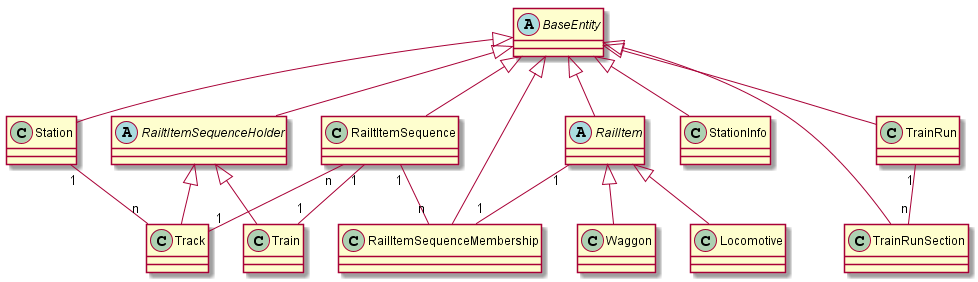
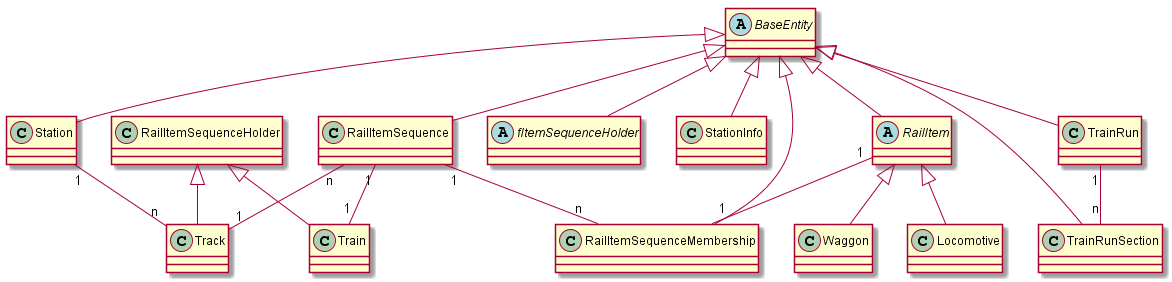
123

diff --git a/src/main/java/de/gravitex/trainmaster/controller/TrainRunController.java b/src/main/java/de/gravitex/trainmaster/controller/TrainRunController.java
@@ -12,6 +12,7 @@ import org.springframework.web.bind.annotation.RequestMapping;
 import org.springframework.web.bind.annotation.RequestParam;
 import org.springframework.web.bind.annotation.RestController;
 
+import de.gravitex.trainmaster.config.ServerMappings;
 import de.gravitex.trainmaster.dlh.EntityHelper;
 import de.gravitex.trainmaster.dlh.SimpleTrackRenderer;
 import de.gravitex.trainmaster.entity.Locomotive;
@@ -28,7 +29,7 @@ import de.gravitex.trainmaster.entity.Waggon;
 import de.gravitex.trainmaster.logic.TrainRunner;
 import de.gravitex.trainmaster.repo.RailItemRepository;
 import de.gravitex.trainmaster.repo.RailItemSequenceRepository;
-import de.gravitex.trainmaster.repo.RailtItemSequenceMembershipRepository;
+import de.gravitex.trainmaster.repo.RailItemSequenceMembershipRepository;
 import de.gravitex.trainmaster.repo.StationInfoRepository;
 import de.gravitex.trainmaster.repo.StationRepository;
 import de.gravitex.trainmaster.repo.TrackRepository;
@@ -36,6 +37,7 @@ import de.gravitex.trainmaster.repo.TrainRepository;
 import de.gravitex.trainmaster.repo.TrainRunRepository;
 import de.gravitex.trainmaster.repo.TrainRunSectionRepository;
 import de.gravitex.trainmaster.repo.WaggonRepository;
+import de.gravitex.trainmaster.service.ITrackService;
 
 @RestController
 public class TrainRunController {
@@ -54,7 +56,7 @@ public class TrainRunController {
 	private RailItemSequenceRepository railItemSequenceRepository;
 
 	@Autowired
-	private RailtItemSequenceMembershipRepository railtItemSequenceMembershipRepository;
+	private RailItemSequenceMembershipRepository railItemSequenceMembershipRepository;
 
 	@Autowired
 	private RailItemRepository railItemRepository;
@@ -74,7 +76,10 @@ public class TrainRunController {
     @Autowired
     WaggonRepository waggonRepository;
     
-	@RequestMapping("/meeting")
+    @Autowired
+    ITrackService productService;
+    
+	@RequestMapping(ServerMappings.MEETING)
 	public Greeting meeting(@RequestParam(value = "name", defaultValue = "Meeting") String name) {
 		trainRunRepository.save(new TrainRun());
 		waggonRepository.save(EntityHelper.makeWaggon("123A"));
@@ -83,7 +88,7 @@ public class TrainRunController {
 		return new Greeting(counter.incrementAndGet(), String.format(template, name));
 	}
 
-	@RequestMapping("/greeting")
+	@RequestMapping(ServerMappings.GREETING)
 	public Greeting greeting(@RequestParam(value = "name", defaultValue = "World") String name) {
 		trainRunRepository.save(new TrainRun());
 		trainRunRepository.save(new TrainRun());
@@ -95,8 +100,8 @@ public class TrainRunController {
 	}
 	
 	@Transactional
-	@RequestMapping("/train")
-	public ResponseEntity<String> train(@RequestParam(value = "name", defaultValue = "Train") String name) {
+	@RequestMapping(ServerMappings.TRAIN)
+	public ResponseEntity<String> train(@RequestParam(value = "trackNumber") String trackNumber) {
 		
 		Station station1 = new Station("S1");
 		stationRepository.save(station1);
@@ -175,23 +180,26 @@ public class TrainRunController {
 		
 		renderTracksAndWaggons("AFTER DEPART");
 		
-		return new ResponseEntity<String>("123-456-789", HttpStatus.OK);
+		String trackSequence = productService.getTrackSequenceAsString(trackNumber);
+		
+		// return new ResponseEntity<String>("123-456-789", HttpStatus.OK);
+		return new ResponseEntity<String>(trackSequence, HttpStatus.OK);
 	}
 	
-	private void putRailItemToTrack(RailItem railItem, Track track, RailItemSequence railtItemSequence,
+	private void putRailItemToTrack(RailItem railItem, Track track, RailItemSequence railItemSequence,
 			int ordinalPosition) {
 
-		System.out.println("putWaggonToTrack :: waggon = " + railItem.getIdentifier() + ", track = " + track.getName()
+		System.out.println("putWaggonToTrack :: waggon = " + railItem.getIdentifier() + ", track = " + track.getTrackNumber()
 				+ ", station = " + track.getStation().getStationName());
 
-		railtItemSequence.setRailItemSequenceHolder(track);
-		railItemSequenceRepository.save(railtItemSequence);
+		railItemSequence.setRailItemSequenceHolder(track);
+		railItemSequenceRepository.save(railItemSequence);
 
 		RailItemSequenceMembership sequenceMembership = new RailItemSequenceMembership();
 		sequenceMembership.setRailItem(railItem);
 		sequenceMembership.setOrdinalPosition(ordinalPosition);
-		sequenceMembership.setRailItemSequence(railtItemSequence);
-		railtItemSequenceMembershipRepository.save(sequenceMembership);
+		sequenceMembership.setRailItemSequence(railItemSequence);
+		railItemSequenceMembershipRepository.save(sequenceMembership);
 	}
 	
 	private String renderTracksAndWaggons(String description) {

diff --git a/src/main/java/de/gravitex/trainmaster/manager/WaggonManager.java b/src/main/java/de/gravitex/trainmaster/manager/WaggonManager.java
@@ -10,31 +10,31 @@ import de.gravitex.trainmaster.helper.StringHelper;
 
 public class WaggonManager {
 
-	public static RailItemSequence addWaggonToSequence(RailItemSequence railtItemSequence, RailItem... railItems) {
-		if (railtItemSequence == null) {
-			railtItemSequence = new RailItemSequence(0);
+	public static RailItemSequence addWaggonToSequence(RailItemSequence railItemSequence, RailItem... railItems) {
+		if (railItemSequence == null) {
+			railItemSequence = new RailItemSequence(0);
 		}
 		for (RailItem railItem : railItems) {
 			RailItemSequenceMembership railItemSequenceMembership = new RailItemSequenceMembership();
 			railItemSequenceMembership.setRailItem(railItem);
-			railtItemSequence.getRailItemSequenceMemberships().add(railItemSequenceMembership);
+			railItemSequence.getRailItemSequenceMemberships().add(railItemSequenceMembership);
 		}
-		return railtItemSequence;
+		return railItemSequence;
 	}
 
-	public static String getWaggonNumbersAsString(RailItemSequence railtItemSequence) {
+	public static String getWaggonNumbersAsString(RailItemSequence railItemSequence) {
 		List<String> waggonNumbers = new ArrayList<>();
-		for (RailItemSequenceMembership membership : railtItemSequence.getRailItemSequenceMemberships()) {
+		for (RailItemSequenceMembership membership : railItemSequence.getRailItemSequenceMemberships()) {
 			waggonNumbers.add(membership.getRailItem().getIdentifier());
 		}
 		return StringHelper.stringListAsOrderedAndSeparated(waggonNumbers);
 	}
 
-	public static RailItemSequence reverseWaggonSequence(RailItemSequence railtItemSequence) {
+	public static RailItemSequence reverseWaggonSequence(RailItemSequence railItemSequence) {
 		RailItemSequence reversedSequence = new RailItemSequence(0);
-		int removeIndex = railtItemSequence.getRailItemSequenceMemberships().size() - 1;
-		for (int counter = 0; counter < railtItemSequence.getRailItemSequenceMemberships().size(); counter++) {
-			RailItemSequenceMembership membership = railtItemSequence.getRailItemSequenceMemberships().get(removeIndex);
+		int removeIndex = railItemSequence.getRailItemSequenceMemberships().size() - 1;
+		for (int counter = 0; counter < railItemSequence.getRailItemSequenceMemberships().size(); counter++) {
+			RailItemSequenceMembership membership = railItemSequence.getRailItemSequenceMemberships().get(removeIndex);
 			membership.setOrdinalPosition(counter);
 			addWaggonToSequence(reversedSequence, membership.getRailItem());
 			removeIndex--;

diff --git a/src/test/java/de/gravitex/trainmaster/TrainMasterDatabaseTest.java b/src/test/java/de/gravitex/trainmaster/TrainMasterDatabaseTest.java
@@ -26,7 +26,7 @@ import de.gravitex.trainmaster.entity.Waggon;
 import de.gravitex.trainmaster.logic.TrainRunner;
 import de.gravitex.trainmaster.repo.RailItemRepository;
 import de.gravitex.trainmaster.repo.RailItemSequenceRepository;
-import de.gravitex.trainmaster.repo.RailtItemSequenceMembershipRepository;
+import de.gravitex.trainmaster.repo.RailItemSequenceMembershipRepository;
 import de.gravitex.trainmaster.repo.StationInfoRepository;
 import de.gravitex.trainmaster.repo.StationRepository;
 import de.gravitex.trainmaster.repo.TrackRepository;
@@ -47,7 +47,7 @@ public class TrainMasterDatabaseTest {
 	private RailItemSequenceRepository railItemSequenceRepository;
 
 	@Autowired
-	private RailtItemSequenceMembershipRepository railtItemSequenceMembershipRepository;
+	private RailItemSequenceMembershipRepository railItemSequenceMembershipRepository;
 
 	@Autowired
 	private RailItemRepository railItemRepository;
@@ -188,19 +188,19 @@ public class TrainMasterDatabaseTest {
 		return simpleTrackRenderer.render();
 	}
 
-	private void putRailItemToTrack(RailItem railItem, Track track, RailItemSequence railtItemSequence,
+	private void putRailItemToTrack(RailItem railItem, Track track, RailItemSequence railItemSequence,
 			int ordinalPosition) {
 
-		System.out.println("putWaggonToTrack :: waggon = " + railItem.getIdentifier() + ", track = " + track.getName()
+		System.out.println("putWaggonToTrack :: waggon = " + railItem.getIdentifier() + ", track = " + track.getTrackNumber()
 				+ ", station = " + track.getStation().getStationName());
 
-		railtItemSequence.setRailItemSequenceHolder(track);
-		railItemSequenceRepository.save(railtItemSequence);
+		railItemSequence.setRailItemSequenceHolder(track);
+		railItemSequenceRepository.save(railItemSequence);
 
 		RailItemSequenceMembership sequenceMembership = new RailItemSequenceMembership();
 		sequenceMembership.setRailItem(railItem);
 		sequenceMembership.setOrdinalPosition(ordinalPosition);
-		sequenceMembership.setRailItemSequence(railtItemSequence);
-		railtItemSequenceMembershipRepository.save(sequenceMembership);
+		sequenceMembership.setRailItemSequence(railItemSequence);
+		railItemSequenceMembershipRepository.save(sequenceMembership);
 	}
 }

diff --git a/src/main/java/de/gravitex/trainmaster/service/TrackService.java b/src/main/java/de/gravitex/trainmaster/service/TrackService.java
@@ -1,0 +1,45 @@
+package de.gravitex.trainmaster.service;
+
+import java.util.List;
+
+import org.springframework.beans.factory.annotation.Autowired;
+import org.springframework.stereotype.Component;
+
+import de.gravitex.trainmaster.entity.RailItemSequence;
+import de.gravitex.trainmaster.entity.RailItemSequenceMembership;
+import de.gravitex.trainmaster.entity.Track;
+import de.gravitex.trainmaster.repo.RailItemSequenceMembershipRepository;
+import de.gravitex.trainmaster.repo.RailItemSequenceRepository;
+import de.gravitex.trainmaster.repo.TrackRepository;
+import de.gravitex.trainmaster.repo.TrainRunRepository;
+
+@Component
+public class TrackService implements ITrackService {
+
+	@Autowired
+	TrainRunRepository trainRunRepository;
+
+	@Autowired
+	TrackRepository trackRepository;
+	
+	@Autowired
+	RailItemSequenceMembershipRepository railItemSequenceMembershipRepository;
+	
+	@Autowired
+	RailItemSequenceRepository railItemSequenceRepository;
+
+	@Override
+	public String getTrackSequenceAsString(String trackNumber) {
+		Track track = trackRepository.findByTrackNumber(trackNumber);
+		List<RailItemSequenceMembership> sequenceMemberships = null;
+		String result = "";
+		for (RailItemSequence railItemSequence : railItemSequenceRepository.findByRailItemSequenceHolder(track)) {
+			sequenceMemberships = railItemSequenceMembershipRepository.findByRailItemSequence(railItemSequence);
+			for (RailItemSequenceMembership sequenceMembership : sequenceMemberships) {
+				result += sequenceMembership.getRailItem().getIdentifier() + "#";
+			}
+		}
+		// return "moo123_" + trainRunRepository.findAll().size();
+		return result;
+	}
+}

diff --git a/src/test/java/de/gravitex/trainmaster/controller/TrainRunControllerTest.java b/src/test/java/de/gravitex/trainmaster/controller/TrainRunControllerTest.java
@@ -10,6 +10,8 @@ import org.springframework.boot.test.autoconfigure.web.servlet.AutoConfigureMock
 import org.springframework.boot.test.context.SpringBootTest;
 import org.springframework.test.web.servlet.MockMvc;
 
+import de.gravitex.trainmaster.config.ServerMappings;
+
 @SpringBootTest(webEnvironment = SpringBootTest.WebEnvironment.RANDOM_PORT)
 @AutoConfigureMockMvc
 public class TrainRunControllerTest {
@@ -19,8 +21,8 @@ public class TrainRunControllerTest {
 
 	@Test
 	public void testGreeting() throws Exception {
-		mockMvc.perform(get("/meeting")).andExpect(content().string(containsString("Hello, Meeting!")));
-		mockMvc.perform(get("/greeting")).andExpect(content().string(containsString("Hello, World!")));
-		mockMvc.perform(get("/train")).andExpect(content().string(containsString("123-456-789")));
+		mockMvc.perform(get(ServerMappings.MEETING)).andExpect(content().string(containsString("Hello, Meeting!")));
+		mockMvc.perform(get(ServerMappings.GREETING)).andExpect(content().string(containsString("Hello, World!")));
+		mockMvc.perform(get(ServerMappings.TRAIN).param("trackNumber", "track2Station1")).andExpect(content().string(containsString("123-456-789")));
 	}
 }

diff --git a/src/main/java/de/gravitex/trainmaster/manager/TrackManager.java b/src/main/java/de/gravitex/trainmaster/manager/TrackManager.java
@@ -20,10 +20,10 @@ public class TrackManager {
 			locomotiveSequence.setRailItemSequenceHolder(track);
 		}
 		// waggons
-		for (RailItemSequence railtItemSequence : waggonSequences) {
-			railtItemSequence.setRailItemSequenceHolder(track);
-			track.getRailItemSequences().add(railtItemSequence);
-			railtItemSequence.setRailItemSequenceHolder(track);
+		for (RailItemSequence railItemSequence : waggonSequences) {
+			railItemSequence.setRailItemSequenceHolder(track);
+			track.getRailItemSequences().add(railItemSequence);
+			railItemSequence.setRailItemSequenceHolder(track);
 		}
 		return new TrackPopulation(track, locomotiveSequence, Arrays.asList(waggonSequences));
 	}

diff --git a/src/main/java/de/gravitex/trainmaster/entity/Track.java b/src/main/java/de/gravitex/trainmaster/entity/Track.java
@@ -16,20 +16,20 @@ import lombok.EqualsAndHashCode;
 @Data
 // avoid stack overflow from circular dependency (RailItemSequence <-> Track)
 @EqualsAndHashCode(exclude = "railItemSequences")
-public class Track extends RailtItemSequenceHolder implements PositionedItem {
+public class Track extends RailItemSequenceHolder implements PositionedItem {
 
 	@NotNull
 	@OneToOne
 	private Station station;
 	
-	private String name;
+	private String trackNumber;
 	
 	@OneToMany
 	private List<RailItemSequence> railItemSequences = new ArrayList<>();
 	
 	public Track(String name) {
 		super();
-		this.name = name;
+		this.trackNumber = name;
 	}
 	
 	@Override

diff --git a/src/main/java/de/gravitex/trainmaster/repo/RailItemSequenceMembershipRepository.java b/src/main/java/de/gravitex/trainmaster/repo/RailItemSequenceMembershipRepository.java
@@ -1,0 +1,15 @@
+package de.gravitex.trainmaster.repo;
+
+import java.util.List;
+
+import org.springframework.data.jpa.repository.JpaRepository;
+import org.springframework.stereotype.Repository;
+
+import de.gravitex.trainmaster.entity.RailItemSequence;
+import de.gravitex.trainmaster.entity.RailItemSequenceMembership;
+
+@Repository
+public interface RailItemSequenceMembershipRepository extends JpaRepository<RailItemSequenceMembership, Long> {
+
+	List<RailItemSequenceMembership> findByRailItemSequence(RailItemSequence railItemSequence);
+}

diff --git a/src/main/java/de/gravitex/trainmaster/repo/RailItemSequenceRepository.java b/src/main/java/de/gravitex/trainmaster/repo/RailItemSequenceRepository.java
@@ -1,11 +1,15 @@
 package de.gravitex.trainmaster.repo;
 
+import java.util.List;
+
 import org.springframework.data.jpa.repository.JpaRepository;
 import org.springframework.stereotype.Repository;
 
 import de.gravitex.trainmaster.entity.RailItemSequence;
+import de.gravitex.trainmaster.entity.Track;
 
 @Repository
 public interface RailItemSequenceRepository extends JpaRepository<RailItemSequence, Long> {
 
+	List<RailItemSequence> findByRailItemSequenceHolder(Track track);
 }

diff --git a/src/main/java/de/gravitex/trainmaster/entity/RailItemSequence.java b/src/main/java/de/gravitex/trainmaster/entity/RailItemSequence.java
@@ -28,7 +28,7 @@ public class RailItemSequence extends BaseEntity implements PositionedItem {
 	
 	@ForeignKey(name = "rail_item_sequence_holder_id")
 	@OneToOne
-	private RailtItemSequenceHolder railItemSequenceHolder;
+	private RailItemSequenceHolder railItemSequenceHolder;
 
 	@OneToMany
 	private List<RailItemSequenceMembership> railItemSequenceMemberships = new ArrayList<>();

diff --git a/src/main/java/de/gravitex/trainmaster/dlh/SimpleTrackRenderer.java b/src/main/java/de/gravitex/trainmaster/dlh/SimpleTrackRenderer.java
@@ -32,7 +32,7 @@ public class SimpleTrackRenderer {
 								+ membership.getRailItemSequence().getOrdinalPosition() + "/"
 								+ membership.getOrdinalPosition() + "]";
 					}
-					result = "[" + t.getName() + "] --> " + itemString;
+					result = "[" + t.getTrackNumber() + "] --> " + itemString;
 					System.out.println(result);
 				}
 			}

diff --git a/src/main/java/de/gravitex/trainmaster/config/ServerMappings.java b/src/main/java/de/gravitex/trainmaster/config/ServerMappings.java
@@ -1,0 +1,10 @@
+package de.gravitex.trainmaster.config;
+
+public class ServerMappings {
+
+	public static final String MEETING = "/meeting";
+	
+	public static final String GREETING = "/greeting";
+	
+	public static final String TRAIN = "/train";
+}
